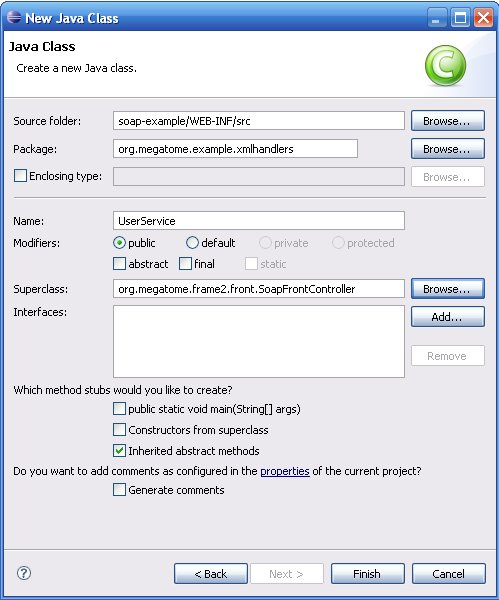
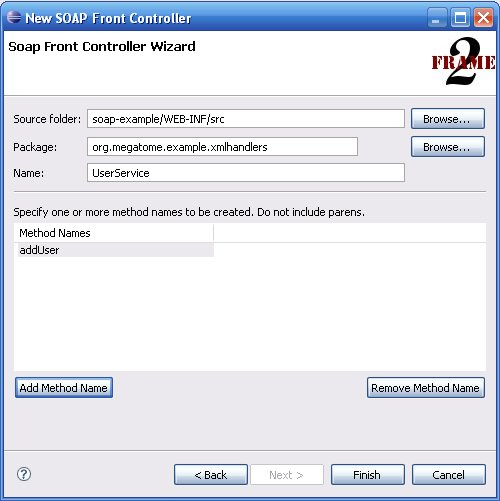
Update guide based on new wizard

Changed region(s): [[0.0, 0.0, 1.0, 1.0]]

diff --git a/Frame2EclipseWS/html/GettingStartedWS.html b/Frame2EclipseWS/html/GettingStartedWS.html
@@ -1,7 +1,5 @@
 <!DOCTYPE HTML PUBLIC "-//W3C//DTD HTML 4.0 Transitional//EN">
-<html><head><title>Getting started With Frame2 for Eclipse</title>
-
-</head>
+<html><head><title>Getting started With Frame2 for Eclipse</title></head>
 <body>
 <h1>Getting Started With Web Services in Frame2</h1>
 <h2>Preface</h2>
@@ -747,18 +745,23 @@ following:<br>
 <pre>public String handle(Event event, Context context) throws Exception {<br> User user = null;<br> if (event instanceof org.megatome.example.jaxbgen.User) {<br> user = new User();<br> org.megatome.example.jaxbgen.User jaxbUser = (org.megatome.example.jaxbgen.User)event;<br> user.setUserName(jaxbUser.getUserName());<br> user.setEmail(jaxbUser.getEmail());<br> } else {<br> user = (User)event;<br> }<br>	<br> UserStorage.addUser(user);<br> return null;<br>}<br></pre>
 <h4>Create the Web Service Class</h4>
 Next, we need to create the class that will actually be called by Axis
-to process the web service call. Use the <code>New Class</code>
-wizard to create a class named <code>UserService</code> in
-the package <code>org.megatome.example.xmlhandlers</code>
-that extends <code>org.megatome.frame2.front.SoapFrontController</code>.<br>
+to process the web service call. This is where the transparency of the
+web model breaks down a bit. In order for the web service call to be
+processed correctly by Frame2, we need to create an instance of
+SoapFrontController. The instance we create will forward the received
+XML elements into the Frame2 processig engine. This sounds more
+complicated than it really is. I'll try to explain as we create the new
+object.<br>Using the <code>New SOAP Front Controller&nbsp;</code>wizard to create a class named <code>UserService</code> in
+the package <code>org.megatome.example.xmlhandlers</code>. Use the "Add Method Name" button to add an entry to the table. Click the default name in the table and change it to <code>addUser</code>. Select "Finish" to create the class.<br>
 <img src="images/user_service.jpg" alt="" align="" border="0">
 <br>
 <u><b>Creating The UserService Class</b></u><br>
 <br>
-Modify the class so that it resembles the following:
-<pre>public class UserService extends SoapFrontController {<br> public Element[] addUser(Element[] elems) {<br> Element[] result = null;<br><br> try {<br> result = processEvent(elems);<br> } catch (Exception e) {<br> }<br><br> return result;<br> }<br><br> @Override<br> public String getEventPackageSpecifier() {<br> return "org.megatome.example.jaxbgen";<br> }<br>}<br></pre>
-(Yes, this seems like a hack. I'm going to see if I can't make it a
-little less stupid in a future release of Frame2.)<br><br>Add the following line to <span style="font-style: italic;">frame2-app-bundle.properties</span>:<br><code>org.megatome.example.jaxbgen.User=Validation error<br></code>The message associated with the key doesn't matter, but the key must exist for the validation to work properly.<code><br></code>
+Modify the <code>getEventPackageName()</code> method so that it returns <code>"org.megatome.example.jaxbgen"</code>. This tells Frame2 where JAXB should look for object definitions when marshalling and demarshalling the XML objects.
+<span style="font-family: monospace;"><br></span><br>If you look at the generated <code>UserService</code> class, you'll see that a method named <code>addUser()</code> has been created that takes an <code>Element[]</code> as a parameter and returns <code>Element[]</code>. This method does nothing more than call <code>processEvent()</code>
+with the supplied argument. This is where the mapping between web
+service and Frame2 happens. Our web service will have a callable method
+named <code>addUser</code> which Axis will map to this method. The <code>addUser</code> method, in turn, sends the XML message into Frame2 where it is processed like any other event.<span style="font-family: monospace;"><br></span><br>Add the following line to <span style="font-style: italic;">frame2-app-bundle.properties</span>:<br><code>org.megatome.example.jaxbgen.User=Validation error<br></code>The message associated with the key doesn't matter, but the key must exist for the validation to work properly.<code><br></code>
 <h4>Create the Deployment Descriptor</h4>
 Now
 we're finally ready to create the deployment descriptor, which will
